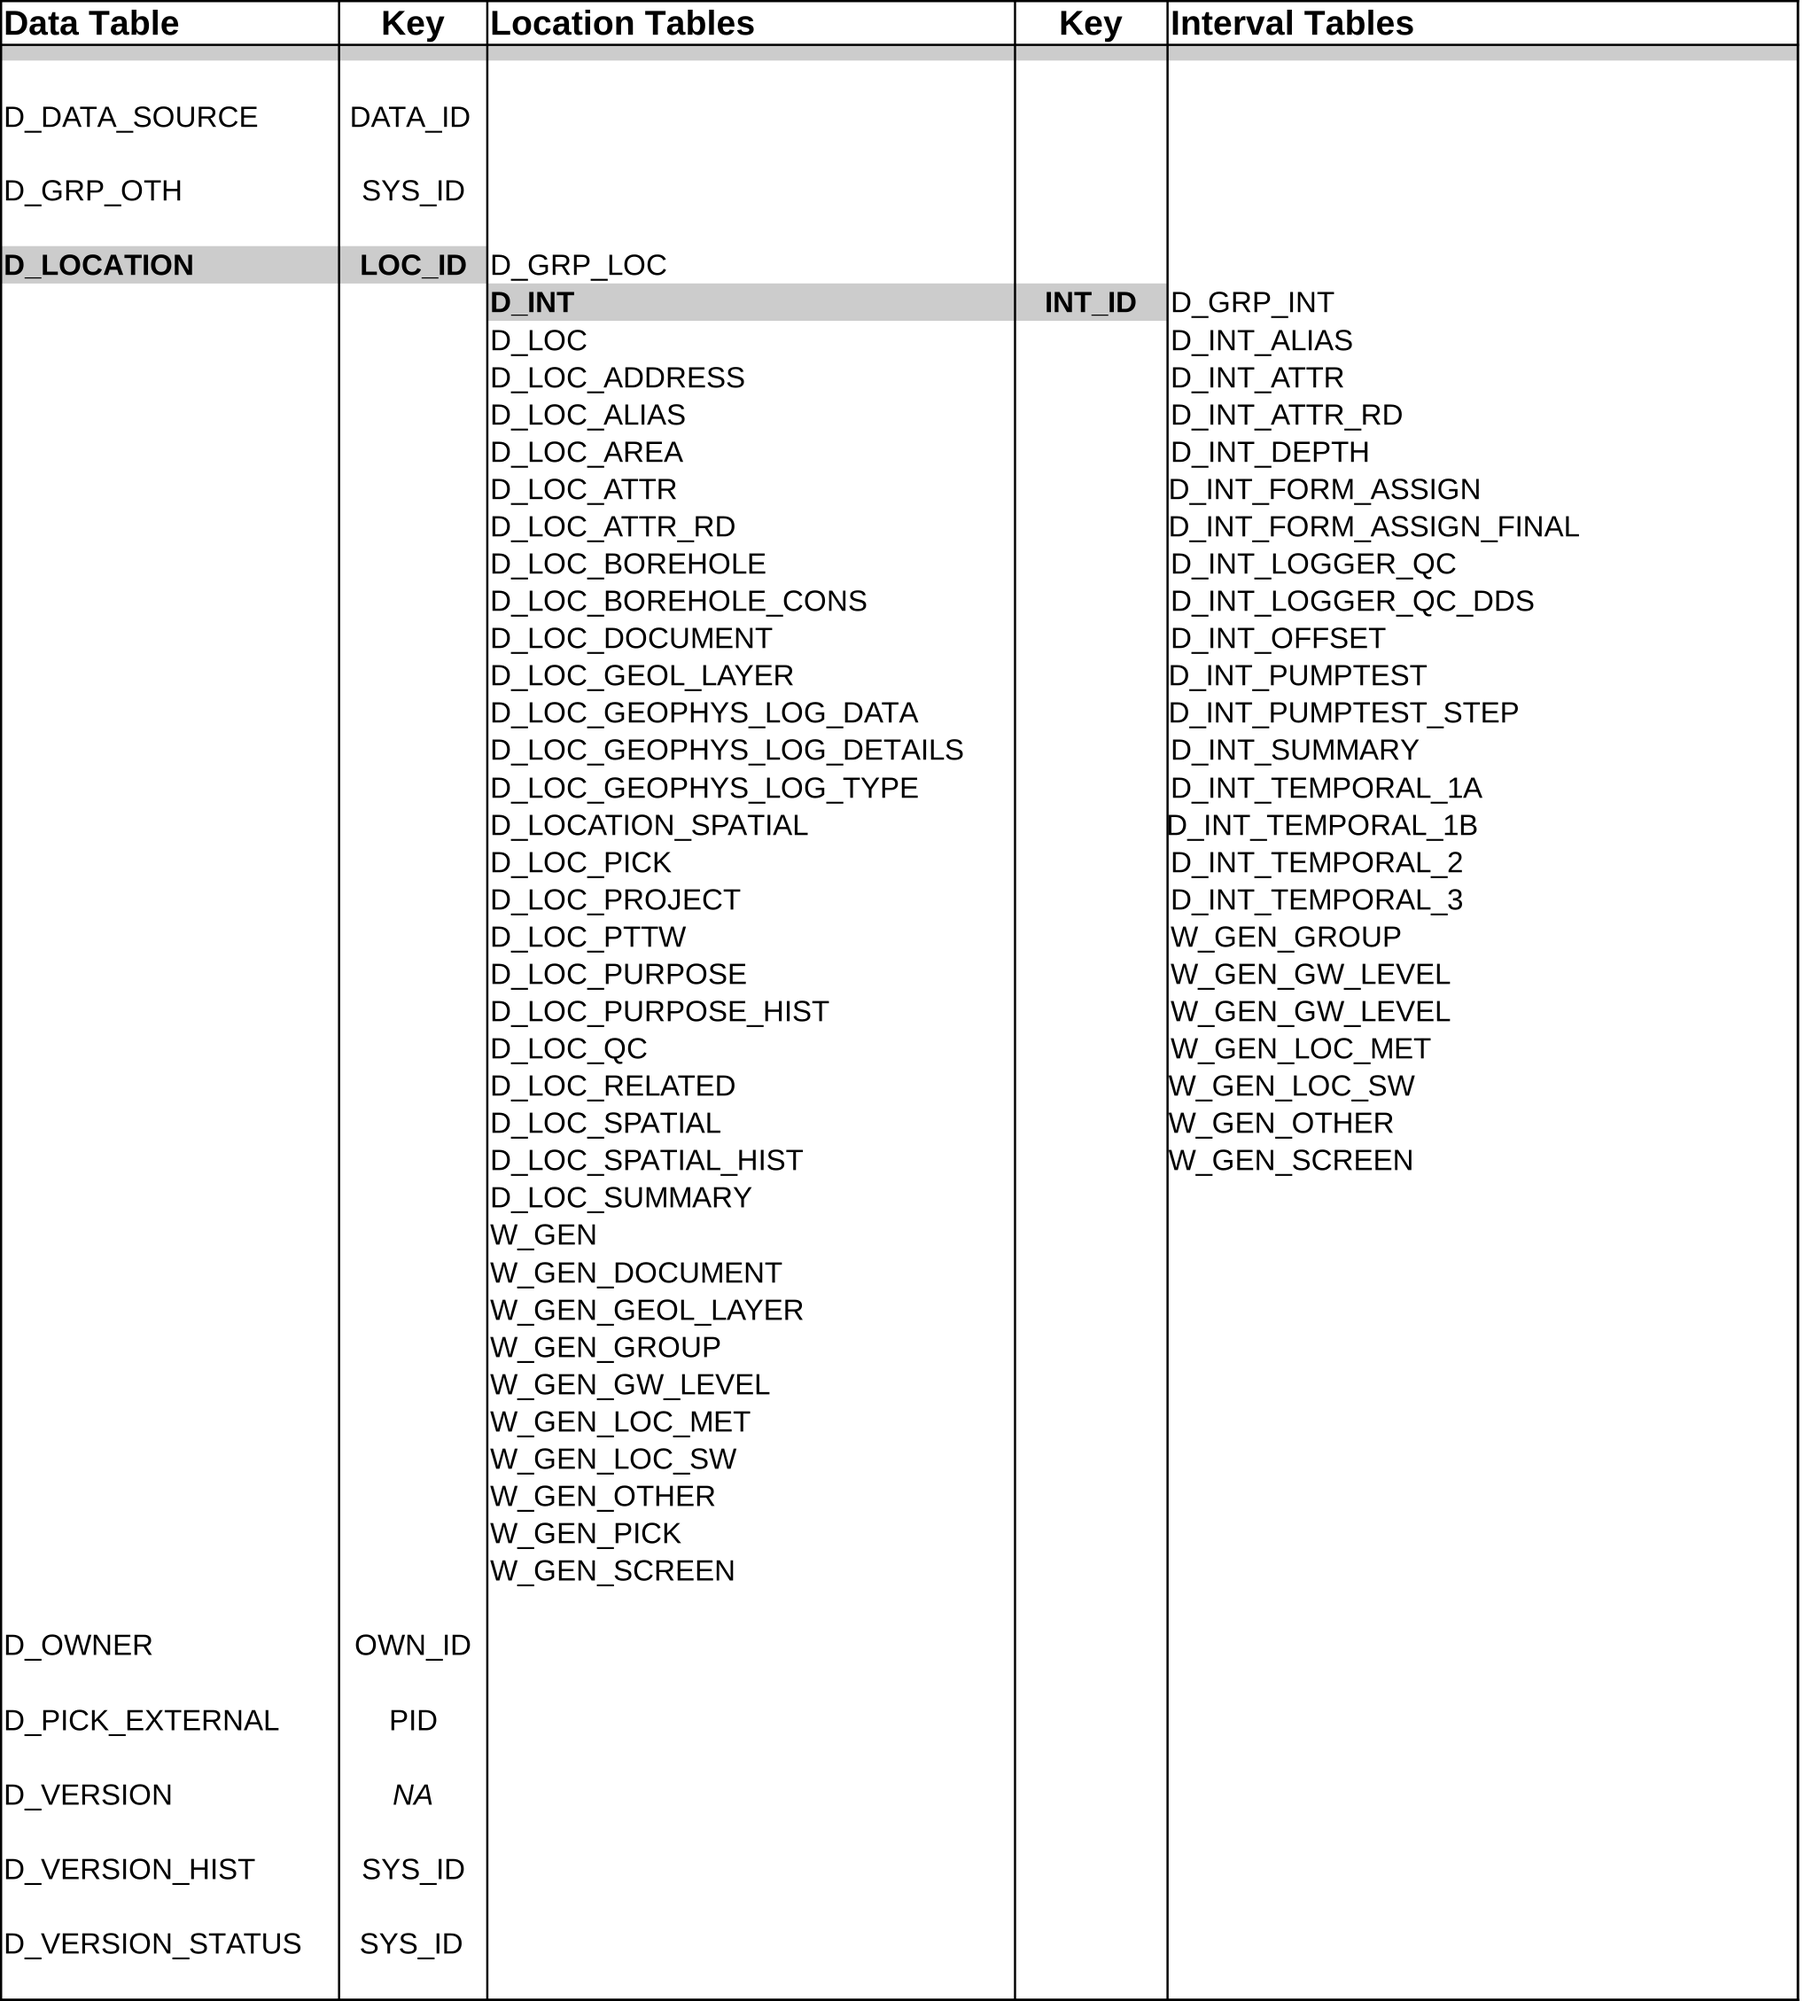
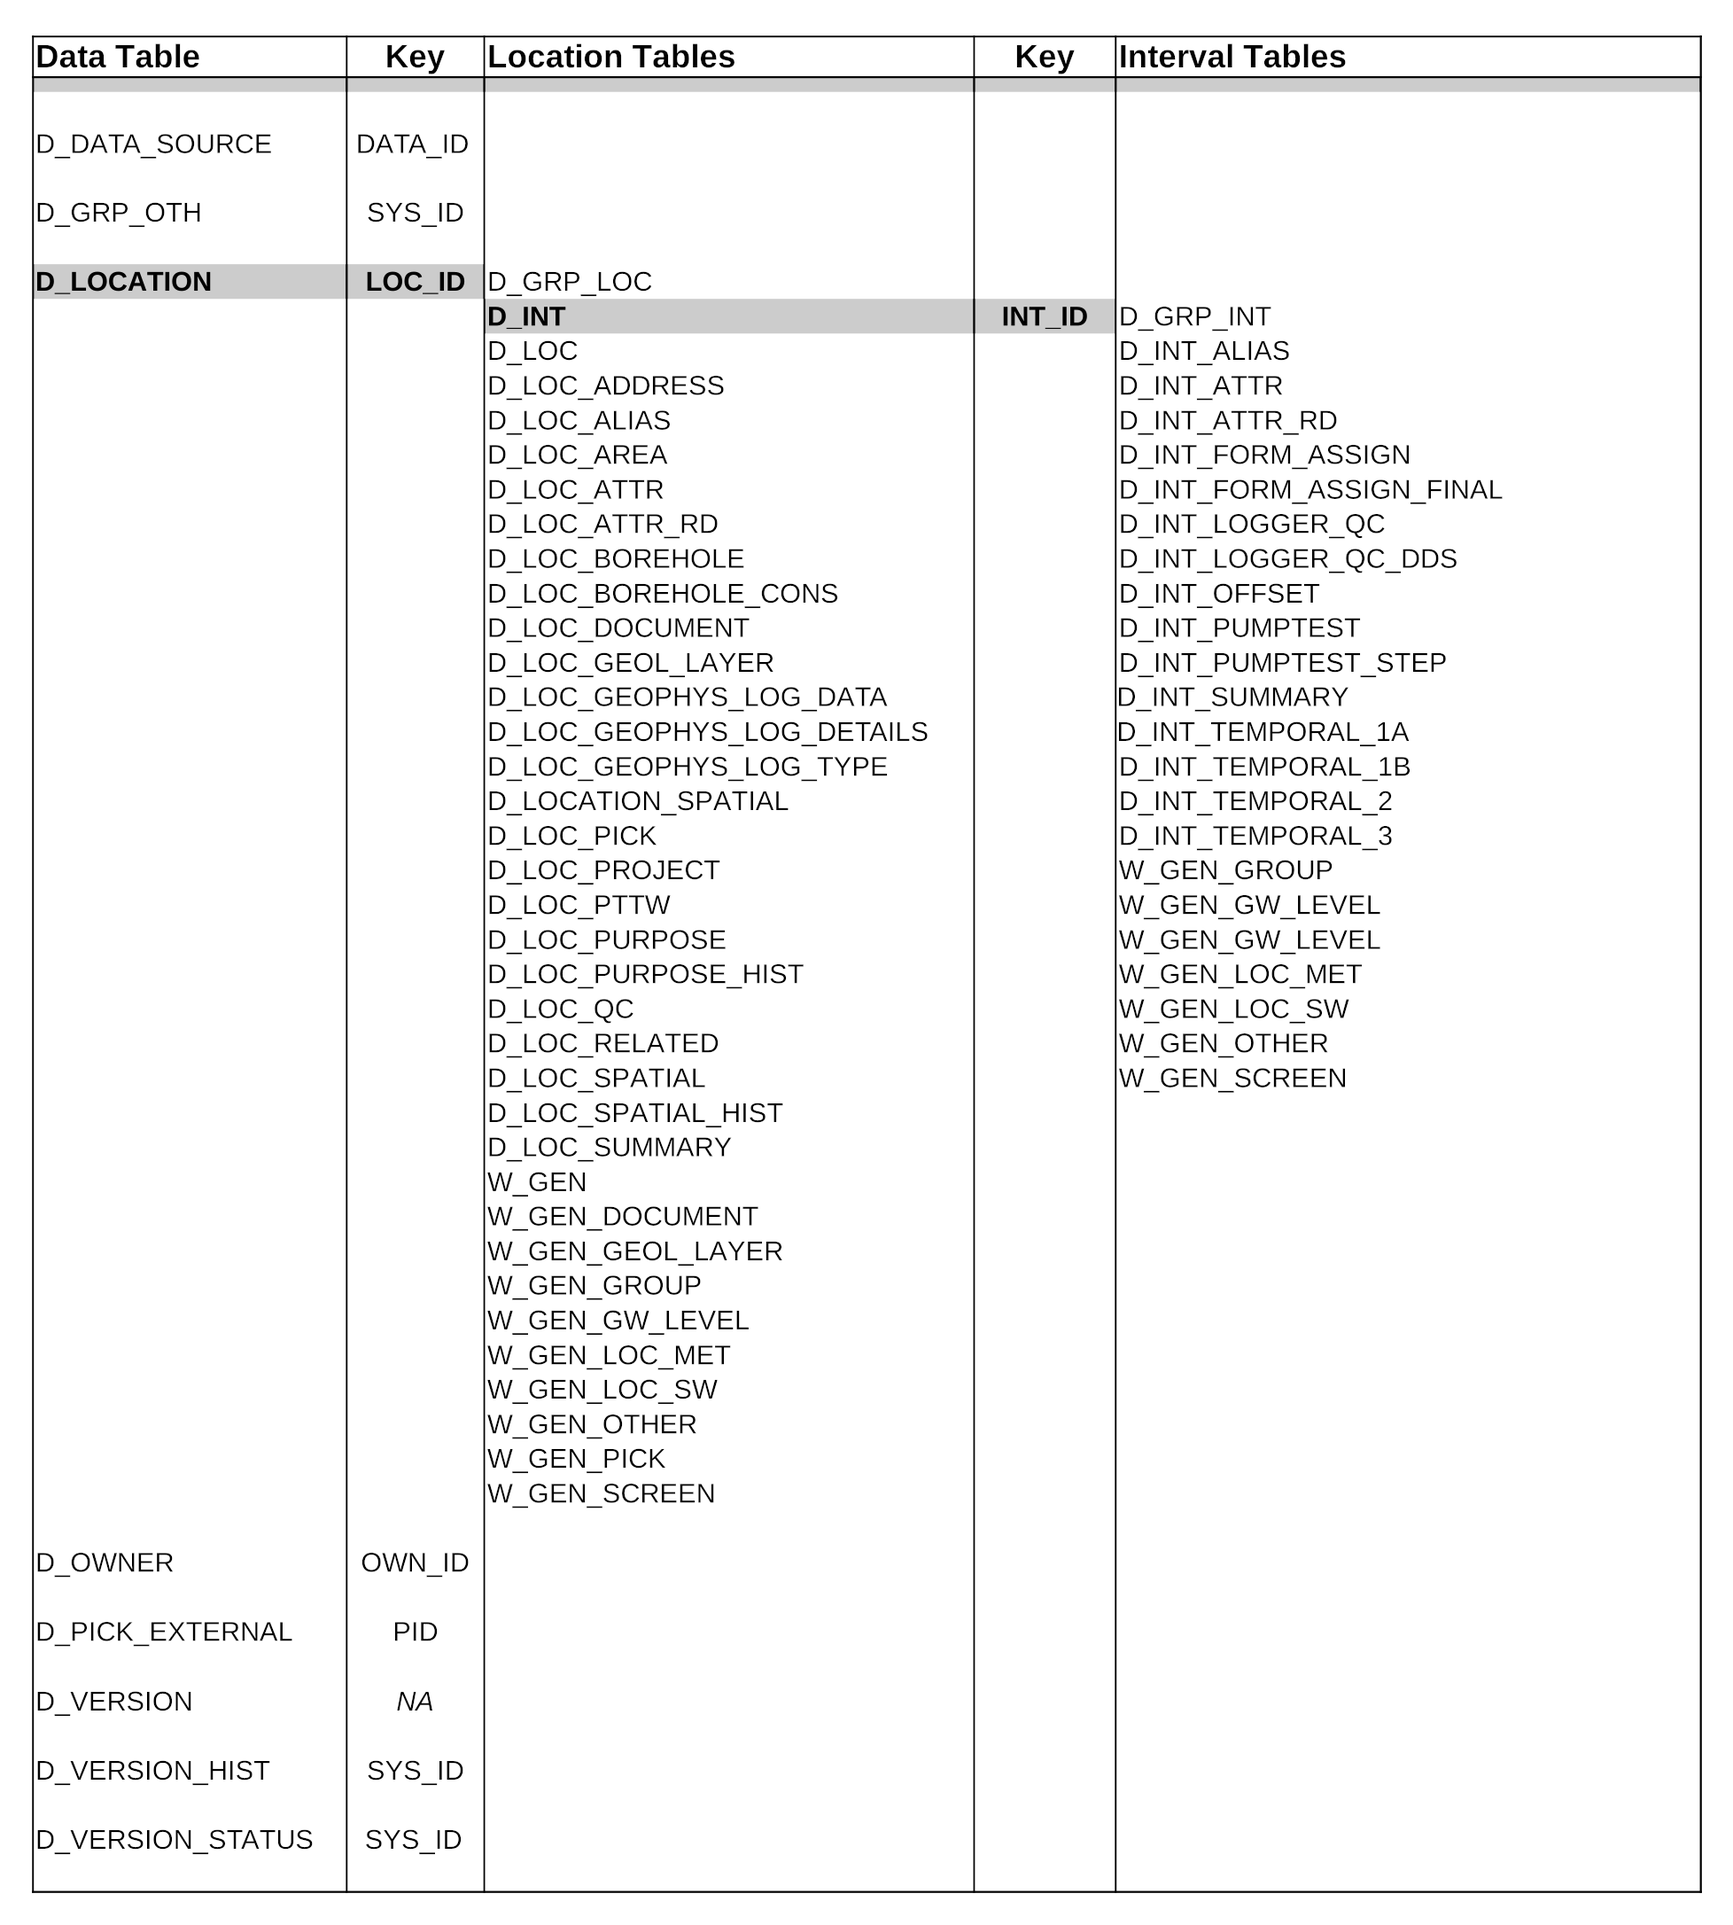
removed references to d_int_depth and substitute d_int_attr

Changed region(s): [[0.0, 0.0, 0.998, 1.0]]

diff --git a/a02_Understanding_ORMGP_Database/02_03_Primary_Data_Relationships/02_03_02_Consultant_Report.md b/a02_Understanding_ORMGP_Database/02_03_Primary_Data_Relationships/02_03_02_Consultant_Report.md
@@ -1,7 +1,7 @@
 ---
 title:  "Section 2.3.2"
 author: "ormgpmd"
-date:   "20250603"
+date:   "20250910"
 output: html_document
 knit:   (
             function(input_file, encoding) {
@@ -166,16 +166,8 @@ interval.  The example here is the sixth soil (split spoon) sample.
 
 ##### D_INT_ATTR
 
-* ATTR_CODE - 7
-    + R_ATTR_CODE - *Soil - Blow Count [7]*
-* VALI - 100
-    + A blow count should be a whole (integer) number; it is generally
-    considered to be the number of blows to drive the split spoon six inches
-* VAL_DEF - 100
-* COMMENT - 100 blows for 15cm penetration
-
-##### D_INT_DEPTH
-
+* ATTR_CODE - 40
+    + R_ATTR_CODE - *Interval - Screen or Soil Depths [40]*
 * TOPD - 4.65
 * BOTD - 4.8
 * TOP_OUOM - 4.65
@@ -183,6 +175,11 @@ interval.  The example here is the sixth soil (split spoon) sample.
     + Not that the top and bottom depths are estimated from the borehole
     record
 * UNIT_OUOM - mbgs
+* VALI - 100
+    + A blow count should be a whole (integer) number; it is generally
+    considered to be the number of blows to drive the split spoon six inches
+* VAL_DEF - 100
+* COMMENT - 100 blows for 15cm penetration
 
 The D_INT table contains the keys LOC_ID and INT_ID; only the latter is a
 primary key.  This table allows a single location to be linked to multiple
@@ -190,6 +187,19 @@ primary key.  This table allows a single location to be linked to multiple
 through the INT_ID field.  Note that there is grain size data associated with
 this particular sample.  The means to capture this information is found in *F
 - Lab Analysis*, following.
+
+Note that for these type of intervals, the various VAL\* fields have been
+adopted to hold particular data related to the particular soil interval.
+These include:
+
+* VALF - <Recovery as a percent>
+* VALF2 - <Moisture as a percentage>
+
+In most cases, these soil samples will have limited data associated with them
+(e.g. blow count, recovery  and moisture).  Any additional information would
+then be found in D_INT_TEMPORAL_1A/1B (if a complete laboratory record is
+available or multiple records over time have been recorded) or D_INT_ATTR_RD
+(again, if limited information is available).
 
 #### D - Water Levels
 
@@ -244,19 +254,19 @@ Information or data produced or determined in a laboratory is generally found
 in the D_INT_TEMPORAL_1A/1B tables.  However, in many cases, the information
 concerning the laboratory analysis is not available.  When this occurs,
 pseudo-lab records can be created or the D_INT_ATTR table can be used in its
-stead.  This is similar to *C - Soil Intervals (Blow Count)*, as described
+stead.  Refer to *C - Soil Intervals (Blow Count)*, as described
 previously.  There is usually a water content measurement for each soil sample
 taken.  The example here is the sixth soil (split spoon) sample and it is
 evaluated for both storage methodologies.
 
 ##### D_INT_ATTR
 
-* ATTR_CODE - 9
-    + R_ATTR_CODE - *Soil - Moisture [9]*
-* VALF - 17
+The same record, as described in D_INT_ATTR, is used.  In this case, the
+moisture percentage is stored in VALF2.
+
+* VALF2 - 17
     + A soil moisture reading should be stored as a floating point number
     (expressed as a percentage)
-* VAL_DEF - 17
 
 The D_INT_ATTR table is linked through INT_ID to D_INT.
 
@@ -295,11 +305,6 @@ borehole record, only two grain size analyses were performed.  The example
 here is the sixth soil (split spoon) sample and it is evaluated for both
 storage methodologies.
 
-##### D_INT_ATTR
-
-* ATTR_CODE - 23
-    + R_ATTR_CODE - *Soil - Grainsize [23]*
-
 ##### D_INT_ATTR_RD
 
 Four grain size percentages are available here.  Namely: gravel (0%); sand
@@ -320,7 +325,7 @@ table is linked to D_INT_ATTR through IATTR_ID.
 
 Alternatively, if we are using the temporal tables, the setup would consist of
 the following.  Note that this dataset could piggy-back on top of that
-describe in *E - Water Content*.  
+described in *E - Water Content*.  
 
 ##### D_INT_TEMPORAL_1A
 
@@ -343,4 +348,4 @@ As described in D_INT_ATTR_RD, previously, only the example of sand is provided
 * RD_VALUE_OUOM - 25
 * RD_UNIT_OUOM - %
 
-*Last Modified: 2025-06-03*
+*Last Modified: 2025-09-10*

diff --git a/a02_Understanding_ORMGP_Database/02_03_Primary_Data_Relationships/02_03_01_MOE_Records.md b/a02_Understanding_ORMGP_Database/02_03_Primary_Data_Relationships/02_03_01_MOE_Records.md
@@ -1,7 +1,7 @@
 ---
 title:  "Section 2.3.1"
 author: "ormgpmd"
-date:   "20250529"
+date:   "20250910"
 output: html_document
 knit:   (
             function(input_file, encoding) {
@@ -230,8 +230,13 @@ Water levels are tied to intervals in the form of screened intervals.
 
 The D_INT table links to D_LOC through the LOC_ID field.
 
-##### D_INT_DEPTH
+##### D_INT_ATTR
 
+The D_INT_ATTR table replaces the use of D_INTERVAL_MONITOR from the previous
+versions of the ORMGP database.
+
+* ATTR_CODE - 40
+    + R_ATTR_CODE - *Interval - Screen or Soil Depths [40]*
 * TOPD - 47.244
 * BOTD - 64.6176
     + The depth fields are converted from TOP_OUOM and BOT_OUOM converted to
@@ -240,14 +245,38 @@ The D_INT table links to D_LOC through the LOC_ID field.
 * BOT_OUOM - 212
 * UNIT_OUOM - fbgs
     + This applies to TOP_OUOM and BOT_OUOM
-* SCR_SLOT - 20
-* DIAM - 25.4
-    + This is calculated from DIAM_OUOM converted to centimetres
-* DIAM_OUOM - 10
-* DIAM_UNIT_OUOM - inch
-    + This applies to the DIAM_OUOM value
 
-The D_INT_DEPTH table is linked to D_INT through the INT_ID field.
+The D_INT_ATT table is linked to D_INT through the INT_ID field.  Additional
+attributes associated with the screen would be found in the D_INT_ATTR_RD
+table, namely the screen slot and the screen diameter.
+
+##### D_INT_ATTR_RD
+
+The screen slot would be captured by:
+
+* RD_NAME_CODE - 71434
+    + R_RD_NAME_CODE - *Screen Details - Slot Size [71434]* 
+* RD_VALUE - 20
+* RD_NAME_OUOM - Screen Details - Slot Size
+* RD_VALUE_OUOM - 20
+
+Note thatno units are specified for this value.
+
+The screen diameter would be captured (in a separate record) by:
+
+* RD_NAME_CODE - 71435
+    + R_RD_NAME_CODE - *Screen Details - Diameter [71435]* 
+* RD_VALUE - 25.4
+* UNIT_CODE - 35
+    + R_UNIT_CODE - *cm [35]*
+    + This applies to the RD_VALUE value
+* RD_NAME_OUOM - Screen Details - Diameter
+* RD_VALUE_OUOM - 10
+* RD_UNIT_OUOM - inch
+    + This applies to the value in RD_VALUE_OUOM
+
+The D_INT_ATTR_RD table is linked to D_INT_ATTR through the
+IATTR_ID field.
 
 ##### D_INT_TEMPORAL_2
 
@@ -338,4 +367,4 @@ starting hour is imposed.
 ![Figure 2.3.1.4 Example MOE Water Well Record - 1995](f02_03_01_04_1995.jpg)
 *Figure 2.3.1.4 Example MOE Water Well Record - 1995*
 
-*Last Modified: 2025-05-29*
+*Last Modified: 2025-09-10*

diff --git a/a02_Understanding_ORMGP_Database/02_03_Primary_Data_Relationships/02_03_03_Grain_Size.md b/a02_Understanding_ORMGP_Database/02_03_Primary_Data_Relationships/02_03_03_Grain_Size.md
@@ -1,7 +1,7 @@
 ---
 title:  "Section 2.3.3"
 author: "ormgpmd"
-date:   "20250603"
+date:   "20250910"
 output: html_document
 knit:   (
             function(input_file, encoding) {
@@ -75,10 +75,15 @@ needs to be created.  The affected tables would be:
 
 This table would be linked to D_LOC through the LOC_ID field.
 
-##### D_INT_DEPTH
+##### D_INT_ATTR
+
+This table replaces the use of D_INTERVAL_MONITOR from previous versions of
+the ORMGP database.
 
 * INT_ID - 363068
     + This is copied from the D_INT table
+* ATTR_CODE - 40
+    + R_ATTR_CODE - *Interval - Screen or Soil Depths [40]*
 * TOPD - 7.37616
 * BOTD - 7.52856
     + Note that these are calculated from the TOP_OUOM and BOT_OUOM fields
@@ -90,29 +95,18 @@ This table would be linked to D_LOC through the LOC_ID field.
     ground elevation listed on the borehole record
 * UNIT_OUOM - fbgs
 
-Note that this table is linked to D_INT through the INT_ID field.
+This table is linked to D_INT through the INT_ID field.
 
 #### Grain Size Data
 
 Grain size data can be found in either the temporal or attribute tables tied
-to a particular interval.  The former is generally used when there is 
+to a particular interval.  The former is generally used when there is
 information available concerning the laboratory and the type of analysis that
 was carried out.  The temporal tables should be used if multiple sets of
 records (over time) are to be linked to an interval.  If information
 concerning the laboratory is absent or there will likely only be a single
 record associated with the interval, the attribute tables can be used.  Both
 examples are presented.
-
-##### D_INT_ATTR
-
-* INT_ID - 363068
-* IATTR_ID
-    + This field is the primary key of the D_INT_ATTR table; the value here is
-    automatically generated when a record is added
-* ATTR_CODE - 23
-    + R_ATTR_CODE - *Soil - Grainsize [23]*
-
-The D_INT_ATTR table is linked through INT_ID to D_INT.
 
 ##### D_INT_ATTR_RD
 
@@ -177,4 +171,4 @@ for the example.
 
 The SAM_ID field links D_INT_TEMPORAL_1B and D_INT_TEMPORAL_1A.
 
-*Last Modified: 2026-06-03*
+*Last Modified: 2026-09-10*
